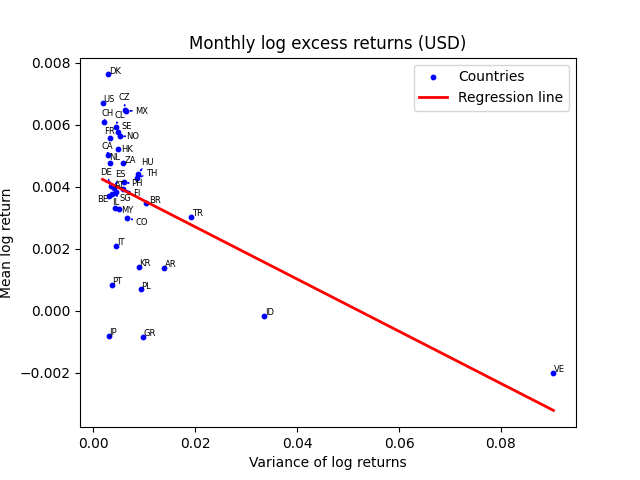
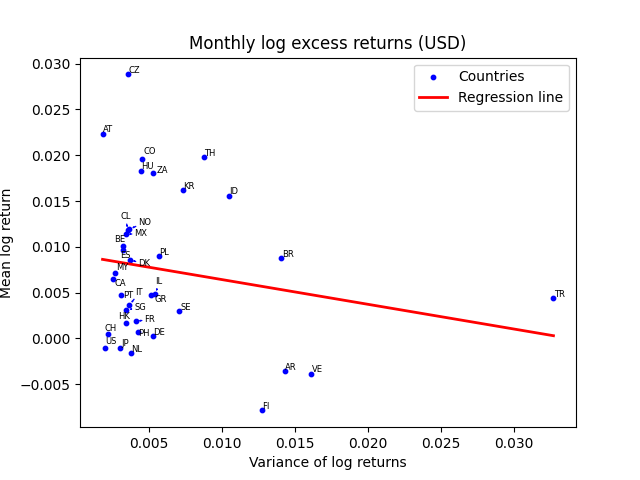
Fix errors

diff --git a/src/figure1.py b/src/figure1.py
@@ -23,6 +23,8 @@ fed = fed.reindex(columns=ds.columns)
 fed = annual_to_monthly_return(fed)
 
 # Calculate returns and risk-free rate
+start, end = (2001, 2004)
+ds = ds.loc[:, (ds.columns >= pd.Timestamp(f"{start-1}-12-01")) & (ds.columns <= pd.Timestamp(f"{end+1}-01-01"))]
 ds_filled = ds.ffill(axis=1)
 returns = ds_filled.pct_change(axis=1, fill_method=None)
 risk_free_rate = fed.loc["FEDFUNDS"]
@@ -31,7 +33,7 @@ risk_free_rate = fed.loc["FEDFUNDS"]
 excess_returns = returns.subtract(risk_free_rate, axis=1)
 mean_excess = excess_returns.mean(axis=1)
 var_excess = excess_returns.var(axis=1)
-cov_excess = pd.Series(cpis.calculate_cov_index_portfolio(wb, fed, ds, (2004, 2004), False), index=DS.CODES)
+cov_excess = pd.Series(cpis.calculate_cov_index_portfolio(wb, fed, ds, (start, end), False), index=DS.CODES)
 
 # Log excess returns
 log_returns = np.log(1 + returns)
@@ -39,7 +41,7 @@ log_risk_free = np.log(1 + risk_free_rate)
 log_excess_returns = log_returns.subtract(log_risk_free, axis=1)
 mean_log_excess = log_excess_returns.mean(axis=1)
 var_log_excess = log_excess_returns.var(axis=1)
-cov_log_excess = pd.Series(cpis.calculate_cov_index_portfolio(wb, fed, ds, (2004, 2004), True), index=DS.CODES)
+cov_log_excess = pd.Series(cpis.calculate_cov_index_portfolio(wb, fed, ds, (start, end), True), index=DS.CODES)
 
 
 scatter_countries(x=var_excess,
@@ -47,7 +49,7 @@ scatter_countries(x=var_excess,
                   codes=DS.CODES,
                   x_label="Variance of returns",
                   y_label="Mean return",
-                  title="Monthly log excess returns (USD)",
+                  title="Monthly excess returns (USD)",
                   save="fig1a",)
 
 scatter_countries(x=var_log_excess,
@@ -61,15 +63,15 @@ scatter_countries(x=var_log_excess,
 scatter_countries(x=cov_log_excess,
                   y=mean_log_excess,
                   codes=DS.CODES,
-                  x_label="Covariance of log returns with country's portfolio",
-                  y_label="Mean log return",
+                  x_label="Covariance between log excess returns of country's index and country's portfolio",
+                  y_label="Mean log excess return",
                   title="Monthly log excess returns (USD)",
-                  save="fig1b",)
+                  save="fig1b_log",)
 
 scatter_countries(x=cov_excess,
                   y=mean_excess,
                   codes=DS.CODES,
-                  x_label="Covariance of returns with country's portfolio",
+                  x_label="Covariance between excess returns of country's index and country's portfolio",
                   y_label="Mean return",
-                  title="Monthly log excess returns (USD)",
-                  save="fig1b_log",)
+                  title="Monthly excess returns (USD)",
+                  save="fig1b",)
